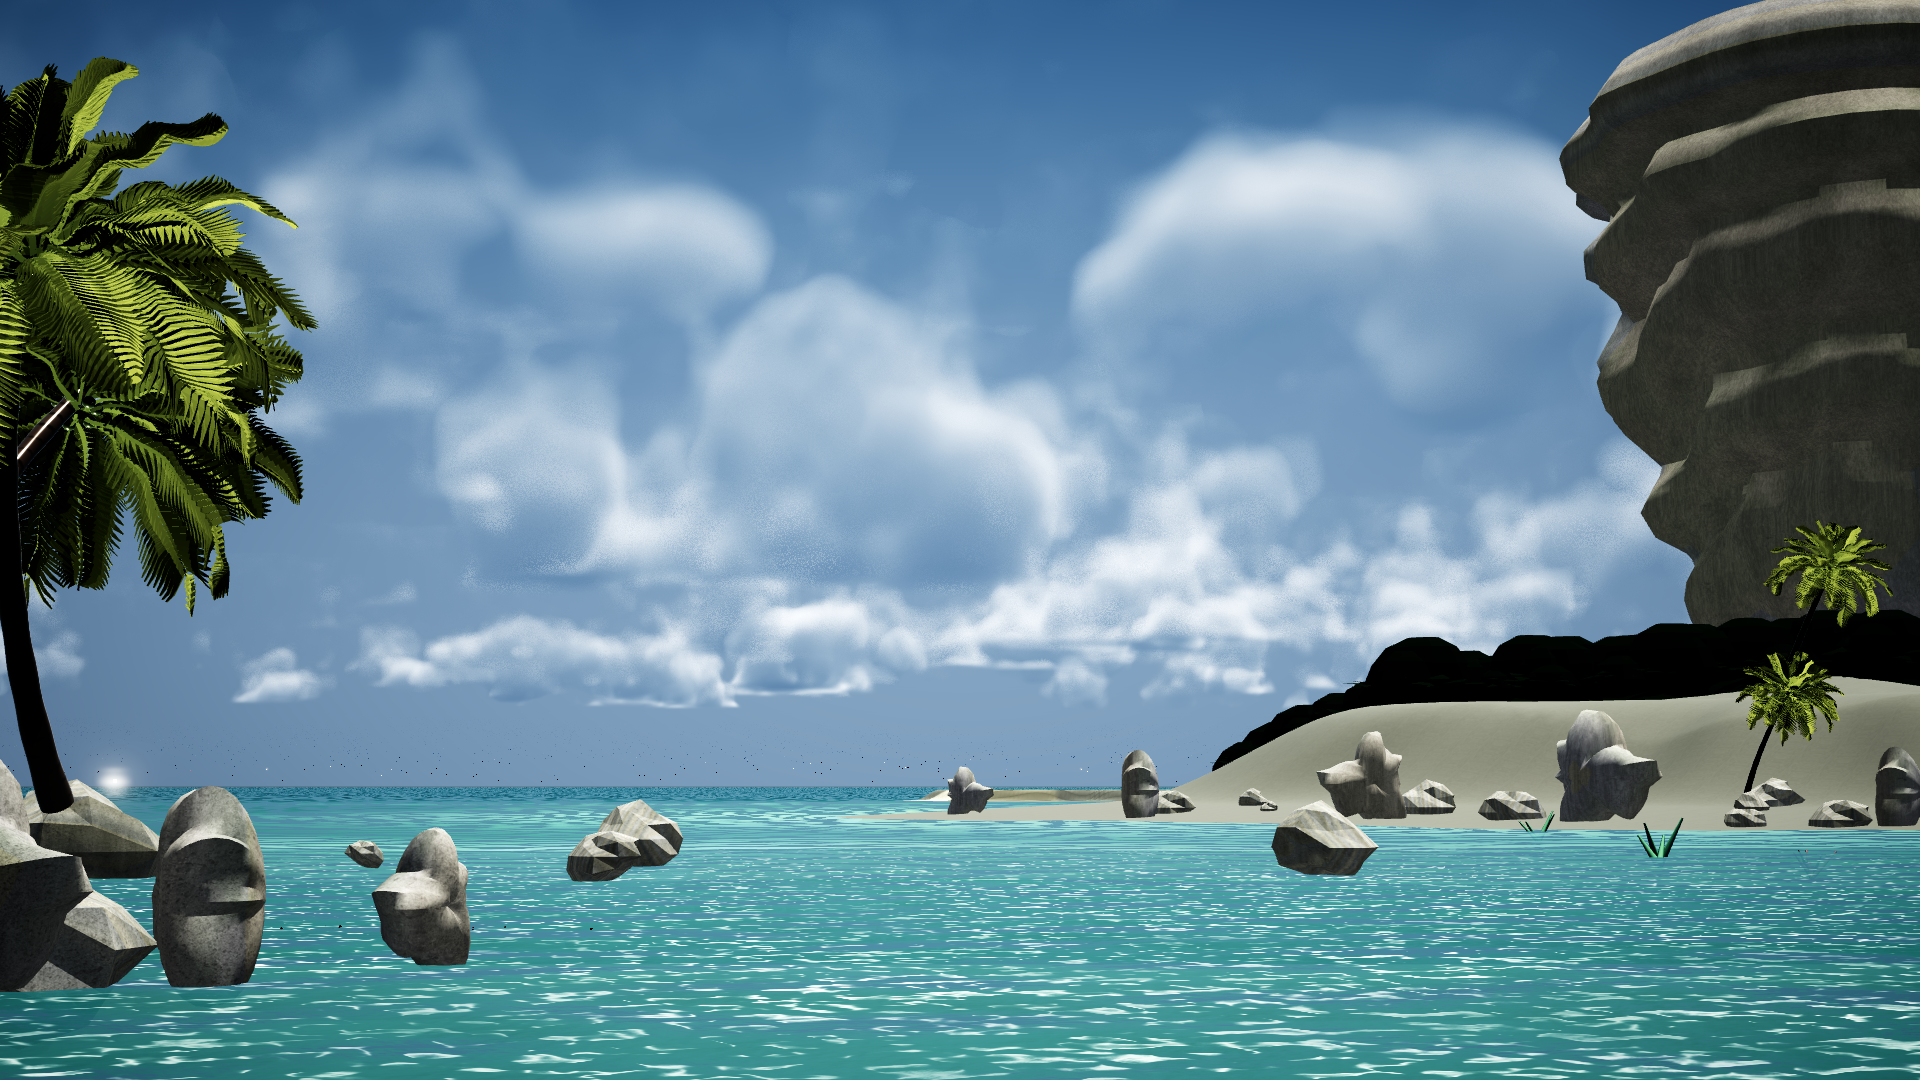
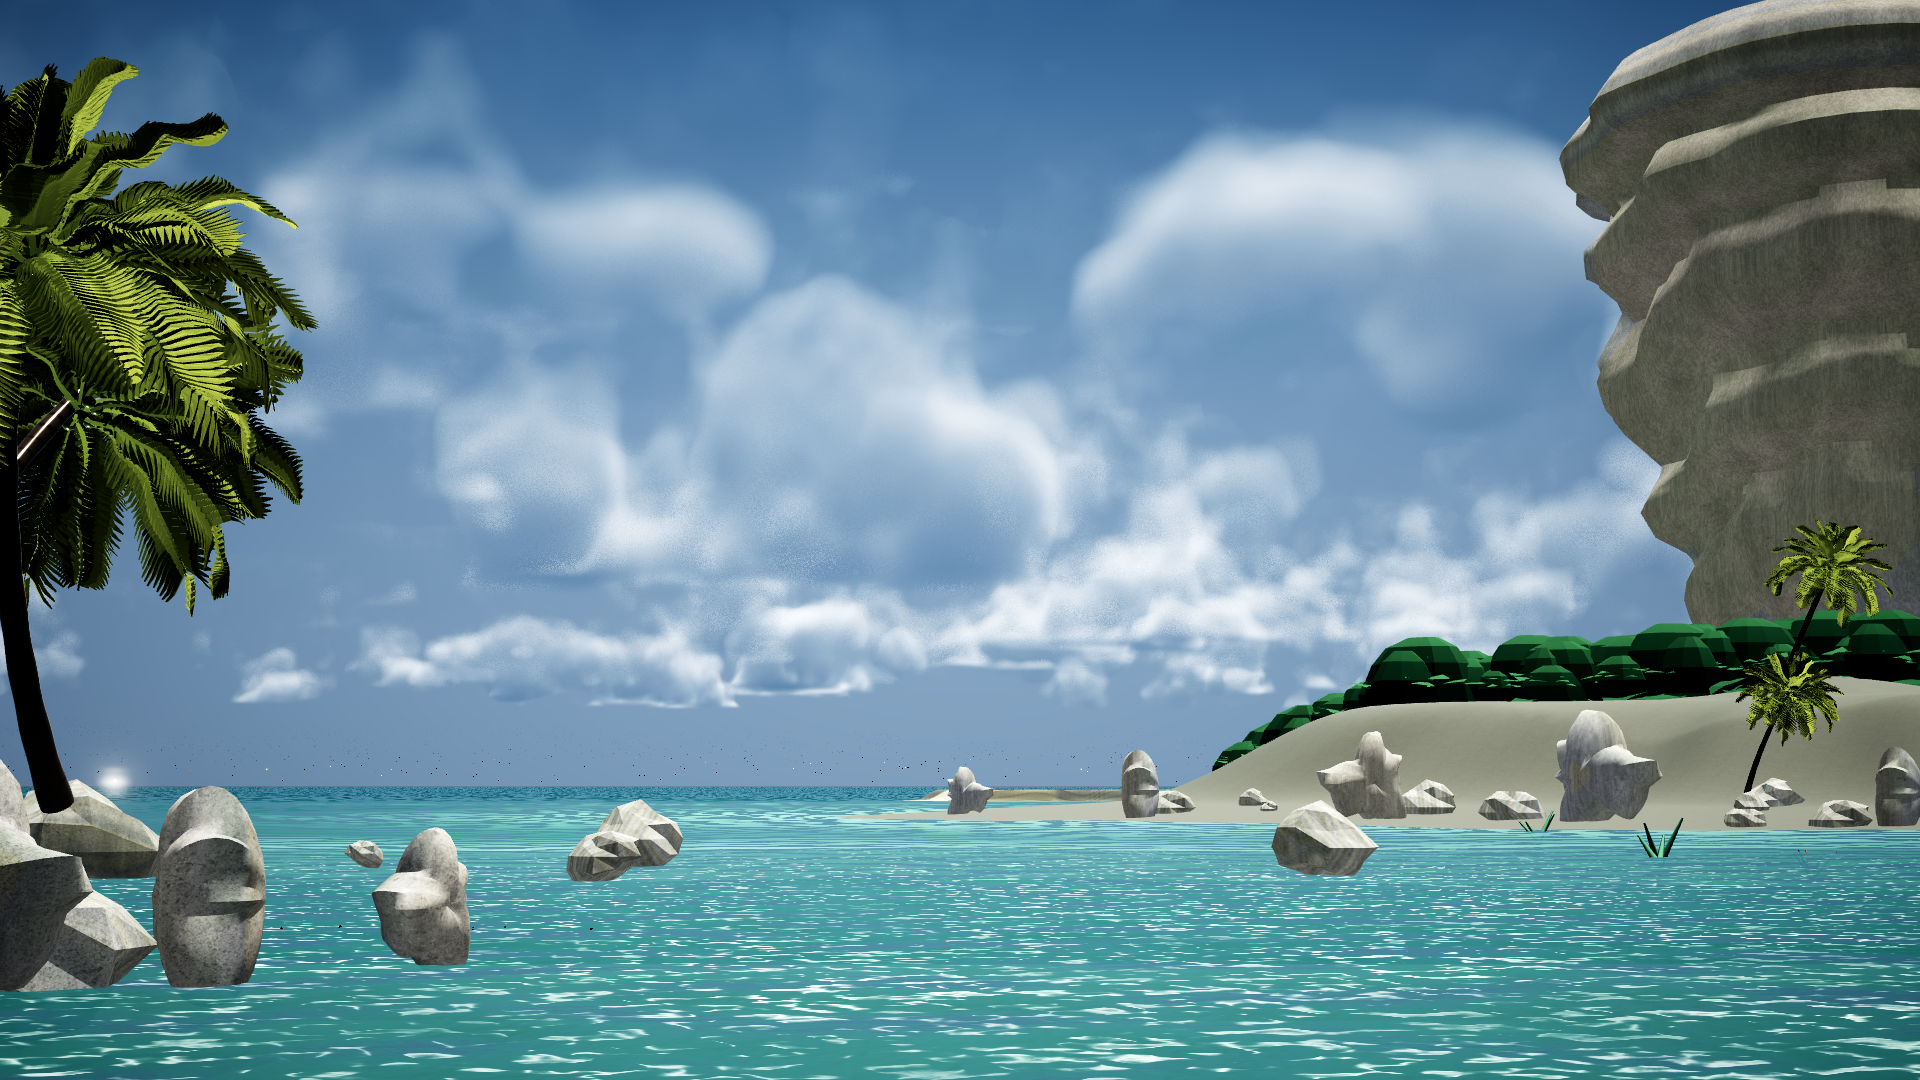
fix(R132): 远处植被黑线 + 崖体背光偏黑. ①Islet_ScrubLeaf._BaseColor 只有 (0.032,0.069,0.044) 即反照率4%, 背光归零 => 地平线整条纯黑(p10=0); 提到 x5 (0.16,0.345) ②崖体 _FillLight 0.9->1.26: 全画面 <40 像素 10.19%->5.66%(-44%) ③Islet 130.0/49.6/99.0, 近黑 5.43%->4.16%; 对比 -5 是去掉黑块的代价, 记档说明

diff --git a/Assets/Editor/R132Setup.cs b/Assets/Editor/R132Setup.cs
@@ -1,0 +1,93 @@
+// R132Setup.cs — R132 远处灌木剪影发黑（反照率只有 4%）
+//
+// Islet_ScrubLeaf._BaseColor = (0.032, 0.069, 0.044) —— 反照率 ~4%，背光直接归零，
+// 远看就是地平线上一整条纯黑（实测 p10 = 0）。
+// 90/90b/90c 反照率 ×2 / ×3 / ×4；90d 还原
+// 91 崖体填充光（_FillLight）0.9 → 1.3
+#if UNITY_EDITOR
+using UnityEditor;
+using UnityEngine;
+
+namespace WaterProject.EditorTools
+{
+    internal static class R132Setup
+    {
+        const string Scrub = "Assets/Art/Materials/Islet/Islet_ScrubLeaf.mat";
+        static readonly Color Base = new Color(0.032f, 0.069f, 0.044f, 1f);
+
+        static void P(string s) => System.IO.File.AppendAllText(
+            System.IO.Path.Combine(Application.dataPath, "../Logs/water_probe.txt"), s);
+
+        static void ScrubMul(float k, string tag)
+        {
+            var m = AssetDatabase.LoadAssetAtPath<Material>(Scrub);
+            if (m == null) { P("R132 REFUSED: 无 Islet_ScrubLeaf\n"); return; }
+            m.SetColor("_BaseColor", new Color(Base.r * k, Base.g * k, Base.b * k, 1f));
+            EditorUtility.SetDirty(m);
+            AssetDatabase.SaveAssetIfDirty(m);
+            P($"R132 {tag}: scrub base ×{k:F1}\n");
+        }
+
+        [MenuItem("Tools/R132/90 灌木反照率 ×2")]
+        public static void Scrub2() => ScrubMul(2f, "90 ×2");
+
+        [MenuItem("Tools/R132/90b 灌木反照率 ×3")]
+        public static void Scrub3() => ScrubMul(3f, "90b ×3");
+
+        [MenuItem("Tools/R132/90c 灌木反照率 ×4")]
+        public static void Scrub4() => ScrubMul(4f, "90c ×4");
+
+        [MenuItem("Tools/R132/90d 灌木还原(×1)")]
+        public static void Scrub1() => ScrubMul(1f, "90d ×1");
+
+        [MenuItem("Tools/R132/90e 灌木反照率 ×5")]
+        public static void Scrub5() => ScrubMul(5f, "90e ×5");
+
+        [MenuItem("Tools/R132/90f 灌木反照率 ×6")]
+        public static void Scrub6() => ScrubMul(6f, "90f ×6");
+
+        [MenuItem("Tools/R132/91 崖体填充光 +40%")]
+        public static void CliffFill()
+        {
+            int n = 0;
+            foreach (var path in new[] {
+                "Assets/Art/Materials/Islet/Islet_Rock_Splat.mat",
+                "Assets/Art/Materials/Islet_ReefRockDetail.mat" })
+            {
+                var m = AssetDatabase.LoadAssetAtPath<Material>(path);
+                if (m == null || !m.HasProperty("_FillLight")) continue;
+                m.SetFloat("_FillLight", 1.26f);
+                EditorUtility.SetDirty(m);
+                AssetDatabase.SaveAssetIfDirty(m);
+                n++;
+            }
+            P($"R132/91 填充光 1.26，写入 {n} 张\n");
+        }
+
+        [MenuItem("Tools/R132/91b 崖体填充光还原")]
+        public static void CliffFillBack()
+        {
+            foreach (var path in new[] {
+                "Assets/Art/Materials/Islet/Islet_Rock_Splat.mat",
+                "Assets/Art/Materials/Islet_ReefRockDetail.mat" })
+            {
+                var m = AssetDatabase.LoadAssetAtPath<Material>(path);
+                if (m == null || !m.HasProperty("_FillLight")) continue;
+                m.SetFloat("_FillLight", 0.9f);
+                EditorUtility.SetDirty(m);
+                AssetDatabase.SaveAssetIfDirty(m);
+            }
+            P("R132/91b 填充光还原 0.9\n");
+        }
+
+        [MenuItem("Tools/R132/92 探针: 灌木/岩石")]
+        public static void Probe()
+        {
+            var m = AssetDatabase.LoadAssetAtPath<Material>(Scrub);
+            var r = AssetDatabase.LoadAssetAtPath<Material>("Assets/Art/Materials/Islet_ReefRockDetail.mat");
+            P($"R132/92 scrub=({m.GetColor("_BaseColor").r:F3},{m.GetColor("_BaseColor").g:F3}) "
+              + $"fill={(r != null && r.HasProperty("_FillLight") ? r.GetFloat("_FillLight") : -1):F2}\n");
+        }
+    }
+}
+#endif

diff --git a/Docs/学习路径与知识库/检测报告/R117_AI贴图测评.md b/Docs/学习路径与知识库/检测报告/R117_AI贴图测评.md
@@ -498,3 +498,47 @@ Islet 全场景：126.5/56.0/96.6 → **125.3/54.6/97.9**，而
 >
 > 修法很直接：把第二块噪声**转 37 度**，让两块的格子错开；再让它**成片地亮暗**（真实水面就是这样）。
 > 结果水面上的纯白点少了 **89%**，整片水终于像水了。
+
+---
+
+## 十七、R132：远处植被"一条黑线" + 崖体背光偏黑
+
+### 一、灌木：反照率只有 4%
+
+`Islet_ScrubLeaf._BaseColor = (0.032, 0.069, 0.044)` —— **反照率 ~4%**，
+背光时乘上任何光照都接近 0，远看就是地平线上一整条纯黑（实测 p10 = 0）。
+
+| 反照率倍数 | 全画面 <20 像素占比 | 观感 |
+| --- | --- | --- |
+| ×1（旧） | 4.73% | 纯黑剪影 |
+| ×2 | 4.68% | 仍黑 |
+| ×3 | 4.35% | 能看出是深绿 |
+| **×5（采用）** | **3.76%** | **深绿灌木、有体积** |
+| ×6 | 3.61% | 略偏亮、开始发"卡通绿" |
+
+### 二、崖体：填充光 +40%
+
+`_FillLight 0.9 → 1.26`（两张岩石材质同时改）。这一项效果最明显：
+
+| 项 | 旧 | 新 |
+| --- | --- | --- |
+| 全画面 <40 的像素 | 10.19% | **5.66%（−44%）** |
+
+崖体原来背光面整片压死，现在能看出层理和分面。
+
+### 三、Islet 整体
+
+125.3/54.6/97.9 → **130.0/49.6/99.0**
+（亮度 +4.7、对比 −5.0、近黑 5.43% → **4.16%**）
+
+> ⚠ 对比掉了 5 点，正是**去掉大片黑块**的必然代价——这块黑原来是"对比"的主要来源。
+> 判断依据：**画面里不该有纯黑的植被**（真实远处是深绿+空气雾），
+> 所以宁可牺牲一点统计对比度，也不要一条黑边。
+
+### 四、人话版
+
+> 远处那条黑线，是**灌木的反照率只有 4%**——黑得跟影子一样，任何光打上去都近乎零。把它提到 ×5 之后就是正常的深绿灌木了。
+>
+> 右边那座崖体则是**填充光不够**，背光面整个压死。提了 40% 之后能看出石头的层和面。
+>
+> 顺带说明：画面"对比度"掉了 5 点，这是去掉大片黑块的代价——但**真实的远景植被本来就不是纯黑**，所以这个交换值得。
